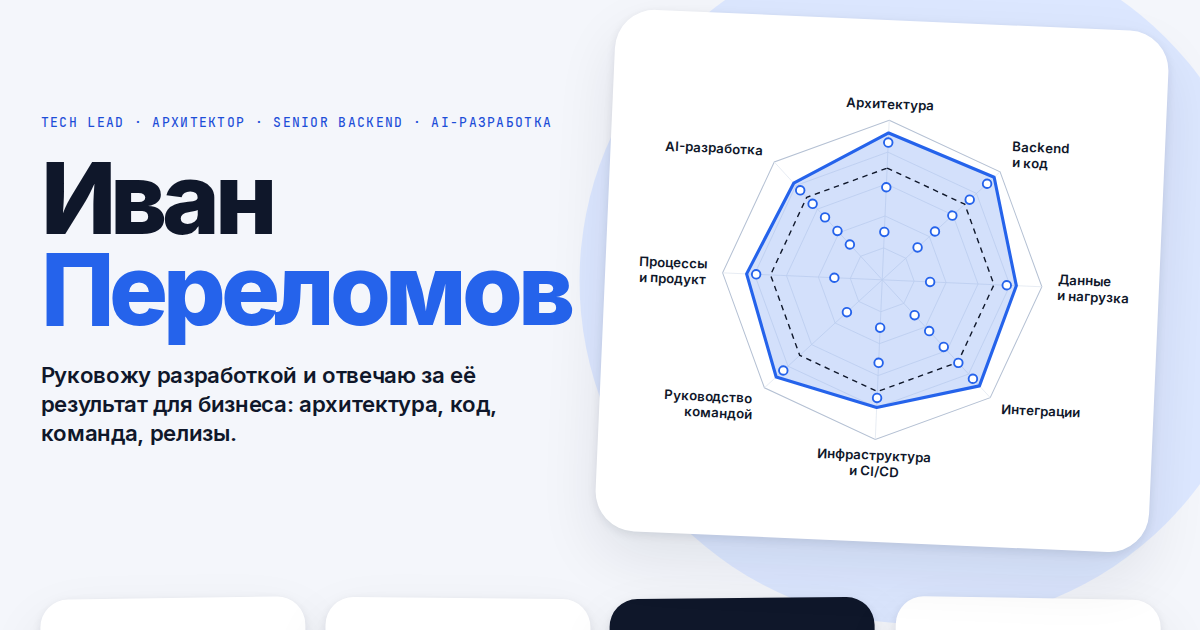
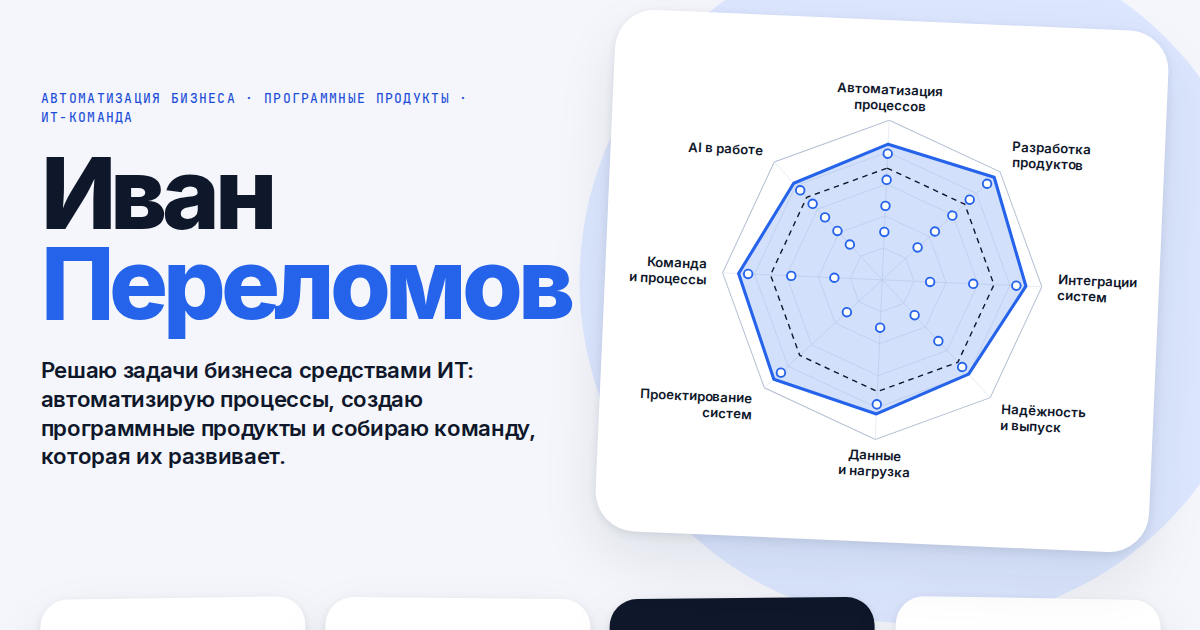
Позиционирование: специалист по ИТ — автоматизация, продукты, команда
Новый блок «Чем занимаюсь», оси круга и заголовки задач на языке бизнеса.

diff --git a/assets/js/data.js b/assets/js/data.js
@@ -5,29 +5,29 @@ window.SITE = (function () {
   var SENIOR = 70;
 
   var AXES = [
-    { id: 'arch', label: ['Архитектура'], level: 92,
-      about: 'Проектирую системы, которые можно развивать и перестраивать без остановки работы.',
-      stack: ['DDD', 'CQRS', 'Clean Architecture', 'Гексагональная архитектура', 'BPMN / UML'] },
-    { id: 'backend', label: ['Backend', 'и код'], level: 95,
-      about: 'Разрабатываю ключевые части продукта: ядро, права доступа, переход на новый фреймворк.',
+    { id: 'process', label: ['Автоматизация', 'процессов'], level: 85,
+      about: 'Ручные операции перевожу в систему, которую сотрудники настраивают без разработчиков.',
+      stack: ['BPMN / UML', 'Scrum / Kanban', 'Roadmap', 'Приоритизация бэклога', 'ТЗ и документация', 'Jira / YouTrack'] },
+    { id: 'backend', label: ['Разработка', 'продуктов'], level: 95,
+      about: 'Разрабатываю ключевые части продукта и обновляю его основу без остановки работы.',
       stack: ['PHP 7/8', 'Symfony', 'Laravel 10–12', 'Doctrine', 'PHPUnit', 'PHPStan', 'Rust', 'Python'] },
-    { id: 'data', label: ['Данные', 'и нагрузка'], level: 84,
-      about: 'Большие базы данных: скорость запросов, целостность и восстановление данных.',
-      stack: ['MySQL', 'PostgreSQL', 'Redis', 'ClickHouse', 'S3', 'SQL / EXPLAIN'] },
-    { id: 'integr', label: ['Интеграции'], level: 90,
-      about: 'Связь продукта с внешними системами: приём лидов, уведомления партнёрам, платежи.',
+    { id: 'integr', label: ['Интеграции', 'систем'], level: 90,
+      about: 'Связываю продукт с внешними системами: приём заявок, уведомления партнёрам, платежи.',
       stack: ['REST API', 'OpenAPI / Swagger', 'Webhooks и postbacks', 'RabbitMQ', 'WebSocket'] },
-    { id: 'infra', label: ['Инфраструктура', 'и CI/CD'], level: 80,
-      about: 'Автоматизация выкладки, развёртывания и восстановления после сбоев.',
+    { id: 'infra', label: ['Надёжность', 'и выпуск'], level: 80,
+      about: 'Обновления выходят автоматически, после сбоя сервис восстанавливается за минуты.',
       stack: ['Linux', 'Docker / Compose', 'Kubernetes', 'Ansible', 'GitLab CI', 'Nginx', 'Prometheus / Grafana', 'ELK', 'Sentry'] },
-    { id: 'lead', label: ['Руководство', 'командой'], level: 90,
-      about: 'Найм, ввод в проект, планирование работы и ответственность за результат отдела.',
-      stack: ['Найм', 'Онбординг', 'Наставничество и PDP', 'Code review'] },
-    { id: 'process', label: ['Процессы', 'и продукт'], level: 85,
-      about: 'Путь задачи от запроса бизнеса до релиза: постановка, планирование, контроль.',
-      stack: ['Scrum / Kanban', 'Roadmap', 'Приоритизация бэклога', 'ТЗ и документация', 'Jira / YouTrack'] },
-    { id: 'ai', label: ['AI-разработка'], level: 82,
-      about: 'AI-инструменты в ежедневной работе: код, code review, публичные проекты.',
+    { id: 'data', label: ['Данные', 'и нагрузка'], level: 84,
+      about: 'Большие базы данных: скорость работы, целостность и восстановление данных.',
+      stack: ['MySQL', 'PostgreSQL', 'Redis', 'ClickHouse', 'S3', 'SQL / EXPLAIN'] },
+    { id: 'arch', label: ['Проектирование', 'систем'], level: 92,
+      about: 'Проектирую системы, которые можно развивать и перестраивать без остановки работы.',
+      stack: ['DDD', 'CQRS', 'Clean Architecture', 'Гексагональная архитектура'] },
+    { id: 'lead', label: ['Команда', 'и процессы'], level: 90,
+      about: 'Найм, ввод в проект, путь задачи от запроса бизнеса до релиза, ответственность за результат отдела.',
+      stack: ['Найм', 'Онбординг', 'Наставничество и PDP', 'Code review', 'Планирование'] },
+    { id: 'ai', label: ['AI в работе'], level: 82,
+      about: 'AI-инструменты в ежедневной работе: разработка, проверка кода, публичные проекты.',
       stack: ['Claude', 'Codex', 'agy', 'LLM API', 'RAG', 'MCP', 'Fine-tuning', 'AI code review'] }
   ];
 
@@ -48,14 +48,14 @@ window.SITE = (function () {
   var TASKS = [
     /* ---------- 3snet ---------- */
     { id: 'crm-refactor', axis: 'arch', job: '3snet', where: S3,
-      title: 'Рефакторинг CRM под нагрузкой', short: 'Рефакторинг CRM',
+      title: 'CRM: вдвое меньше вычислительных ресурсов', short: 'Рефакторинг CRM',
       metric: '−50%', metricNote: 'вычислительных ресурсов',
       context: 'База CRM — несколько сотен гигабайт, в основных сущностях десятки миллионов записей. Ежедневно обновлялось не менее 20% данных.',
       did: 'Разработал архитектуру и план рефакторинга. Часть кода написал лично, остальную работу распределил в команде.',
       result: 'Потребление вычислительных ресурсов снизилось на 50%.',
       stack: S3STACK },
-    { id: 'nocode', axis: 'arch', job: '3snet', where: S3,
-      title: 'No-code сервис бизнес-процессов', short: 'No-code бизнес-процессы',
+    { id: 'nocode', axis: 'process', job: '3snet', where: S3,
+      title: 'Бизнес-процессы без участия разработчиков', short: 'No-code бизнес-процессы',
       pairs: [
         { label: 'Создание нового процесса', before: 'неделя', after: '2 часа' },
         { label: 'Изменение существующего', before: 'несколько дней', after: 'минуты' }
@@ -73,21 +73,21 @@ window.SITE = (function () {
       stack: ['Docker', 'Kubernetes', 'Ansible', 'CI/CD'] },
 
     { id: 'yii-symfony', axis: 'backend', job: '3snet', where: S3,
-      title: 'Переход с Yii2 на Symfony 7.4 без простоя', short: 'Yii2 → Symfony 7.4',
+      title: 'Смена технологической основы без простоя', short: 'Смена фреймворка без простоя',
       metric: '120 эндпоинтов', metricNote: 'вдвоём за 2 недели, без простоя',
       context: 'Приложение с постоянным входящим трафиком. Требовалось сменить фреймворк, сохранив работу сервиса и существующую базу данных.',
       did: 'Спланировал переход и участвовал в переносе: 120 эндпоинтов, 12 модулей. Трафик переключали по отдельным эндпоинтам через балансировщик.',
       result: 'Работу выполнили вдвоём за 2 недели. Простоя не было.',
       stack: ['PHP', 'Yii2', 'Symfony 7.4', 'MySQL'] },
     { id: 'symfony-upgrade', axis: 'backend', job: '3snet', where: S3,
-      title: 'Обновление Symfony 3 до 7.4', short: 'Symfony 3 → 7.4',
+      title: 'Обновление платформы без остановки сервиса', short: 'Обновление платформы',
       metric: '1 неделя', metricNote: 'без остановки сервиса',
       context: 'Приложение на Symfony 3 обрабатывало трафик. Остановка сервиса на время миграции исключалась.',
       did: 'Подготовил план и контролировал переход. Лично перенёс ядро и переписал систему прав доступа.',
       result: 'Миграция заняла 1 неделю, сервис работал без перерыва.',
       stack: ['PHP', 'Symfony 3', 'Symfony 7.4'] },
     { id: 'symfony-di', axis: 'backend', job: '3snet', where: S3,
-      title: 'Адаптация компонентов Symfony под продукт', short: 'Адаптация Symfony',
+      title: 'Ядро под постоянно меняющуюся бизнес-логику', short: 'Ядро продукта',
       text: 'Бизнес-логика продукта постоянно менялась. Глубоко адаптировал под неё компоненты Symfony, сохранив DI как основу приложения.',
       stack: ['PHP', 'Symfony', 'DI'] },
 
@@ -99,29 +99,29 @@ window.SITE = (function () {
       result: 'Данные восстановлены за 2 часа без простоя. Ручные исправления сохранены.',
       stack: ['MySQL', 'Аудит изменений', 'Логирование'] },
 
-    { id: 'leads', axis: 'integr', job: '3snet', where: S3,
+    { id: 'leads', axis: 'process', job: '3snet', where: S3,
       title: 'Обработка входящих лидов', short: 'Обработка лидов',
       pairs: [{ label: 'Обработка входящего лида', before: '12 часов', after: '5 минут' }],
       text: 'Перестроил обработку входящих лидов.',
       stack: S3STACK },
     { id: 'registration', axis: 'integr', job: '3snet', where: S3,
-      title: 'Микросервис регистрации и модерации', short: 'Сервис регистрации',
+      title: 'Регистрация и модерация заявок', short: 'Регистрация и модерация',
       metric: '≈400', metricNote: 'регистраций в день',
       text: 'Разработал отдельный микросервис регистрации с многоэтапной модерацией. Сервис принимает около 400 регистраций в день, обработка заявки занимает до 10 минут.',
       stack: ['PHP', 'Symfony', 'REST API'] },
-    { id: 'form-builder', axis: 'integr', job: '3snet', where: S3,
+    { id: 'form-builder', axis: 'process', job: '3snet', where: S3,
       title: 'Конструктор регистрационных форм', short: 'Конструктор форм',
       context: 'Формы регистрации должны были меняться без участия разработчиков.',
       did: 'Реализовал конструктор форм в административной панели: произвольные экраны, группы и поля, зависимости между полями, несколько этапов, валидация.',
       result: 'Структура формы и зависимости между полями настраиваются в административной панели.',
       stack: ['PHP', 'Symfony'] },
     { id: 'postbacks', axis: 'integr', job: '3snet', where: S3,
-      title: 'Приём лидов и postback-уведомления', short: 'Postback-уведомления',
+      title: 'Обмен данными с внешними системами', short: 'Обмен с внешними системами',
       text: 'Платформа принимает лиды от внешних систем и сообщает им о результате. Разрабатывал эти интеграции: приём лидов, отправку postback-уведомлений (webhooks), REST API и асинхронную обработку данных.',
       stack: ['REST API', 'Webhooks', 'RabbitMQ'] },
 
     { id: 'releases', axis: 'infra', job: '3snet', where: S3,
-      title: 'Автотесты релизов и автоматическая выкладка', short: 'Автовыкладка релизов',
+      title: 'Автоматический выпуск обновлений', short: 'Выпуск обновлений',
       metric: '15 минут', metricNote: 'на обновление всех серверов',
       text: 'Настроил автоматическое тестирование релизов и автоматическую выкладку. Обновление всех серверов занимало не более 15 минут.',
       stack: ['GitLab CI', 'Docker', 'Kubernetes', 'PHPUnit'] },
@@ -131,7 +131,7 @@ window.SITE = (function () {
       text: 'Автоматизировал восстановление сервиса после сбоев.',
       stack: ['Linux', 'Docker', 'Ansible'] },
     { id: 'k8s', axis: 'infra', job: '3snet', where: S3,
-      title: 'Production-кластер Kubernetes и собственный CDN', short: 'Кластер Kubernetes и CDN',
+      title: 'Инфраструктура в двух дата-центрах и собственный CDN', short: 'Два дата-центра и CDN',
       metric: '2 дата-центра', metricNote: 'пять серверов в первой версии кластера',
       did: 'Спроектировал и вручную развернул первую версию production-кластера Kubernetes: master- и worker-ноды на пяти независимых серверах в двух дата-центрах. Затем расширил инфраструктуру дополнительными ingress- и worker-нодами. Реализовал собственное CDN-решение.',
       result: 'Дальнейшее сопровождение кластера передал DevOps-инженеру.',
@@ -150,7 +150,7 @@ window.SITE = (function () {
       text: 'Подготовил документацию и план ввода в проект. Онбординг нового сотрудника сократился до 3 дней.',
       stack: ['Документация', 'Онбординг'] },
 
-    { id: 'process', axis: 'process', job: '3snet', where: S3,
+    { id: 'process', axis: 'lead', job: '3snet', where: S3,
       title: 'От запроса бизнеса до релиза', short: 'Запрос → релиз',
       context: 'Запросы бизнеса поступали без готовой постановки.',
       did: 'Выстроил работу от запроса до готового функционала: разбор задачи, планирование, распределение работы и ревью.',
@@ -164,7 +164,7 @@ window.SITE = (function () {
       stack: S3STACK },
 
     { id: 'ai-review', axis: 'ai', job: '3snet', where: S3,
-      title: 'Code review с AI-инструментами', short: 'AI в code review',
+      title: 'AI-инструменты в работе команды', short: 'AI в работе команды',
       text: 'Организовал code review в команде, позже подключил к нему AI-инструменты и внедрил их в ежедневную работу разработчиков.',
       stack: ['Claude', 'Codex', 'agy', 'AI code review', 'GitLab'] },
     { id: 'mocks', axis: 'ai', job: '3snet', where: S3,

diff --git a/index.html b/index.html
@@ -3,12 +3,12 @@
 <head>
 <meta charset="utf-8">
 <meta name="viewport" content="width=device-width, initial-scale=1">
-<title>Иван Переломов — Tech Lead, архитектор, Senior Backend</title>
-<meta name="description" content="Руковожу разработкой и отвечаю за её результат для бизнеса: архитектура, код, команда, релизы. Работаю удалённо.">
+<title>Иван Переломов — автоматизация бизнеса и разработка программных продуктов</title>
+<meta name="description" content="Решаю задачи бизнеса средствами ИТ: автоматизирую процессы, создаю программные продукты и собираю команду, которая их развивает. Работаю удалённо.">
 <meta property="og:type" content="website">
 <meta property="og:url" content="https://ivan08.github.io/">
-<meta property="og:title" content="Иван Переломов — Tech Lead, архитектор, Senior Backend">
-<meta property="og:description" content="Шесть решённых проблем бизнеса, круг компетенций и пять публичных проектов.">
+<meta property="og:title" content="Иван Переломов — автоматизация бизнеса и разработка программных продуктов">
+<meta property="og:description" content="Автоматизация процессов, программные продукты и ИТ-команда: шесть решённых проблем бизнеса и пять публичных проектов.">
 <meta property="og:image" content="https://ivan08.github.io/assets/img/og.png">
 <meta name="twitter:card" content="summary_large_image">
 <link rel="icon" href="assets/img/favicon.svg" type="image/svg+xml">
@@ -32,15 +32,15 @@
 
 <section class="hero" id="hero">
   <div class="hero-text">
-    <p class="eyebrow">Tech Lead · Архитектор · Senior Backend · AI-разработка</p>
+    <p class="eyebrow">Автоматизация бизнеса · Программные продукты · ИТ-команда</p>
     <h1>Иван<br><span>Переломов</span></h1>
-    <p class="pitch">Руковожу разработкой и отвечаю за её результат для бизнеса: архитектура, код, команда, релизы.</p>
-    <p class="lead">В 3snet прошёл путь от backend-разработчика до руководителя технического отдела из&nbsp;15&nbsp;человек. Обработка заявки сократилась с&nbsp;12&nbsp;часов до 5&nbsp;минут, потери новых клиентов — в&nbsp;4&nbsp;раза.</p>
+    <p class="pitch">Решаю задачи бизнеса средствами ИТ: автоматизирую процессы, создаю программные продукты и собираю команду, которая их развивает.</p>
+    <p class="lead">В 3snet прошёл путь от разработчика до руководителя технического отдела из&nbsp;15&nbsp;человек. Обработка заявки сократилась с&nbsp;12&nbsp;часов до 5&nbsp;минут, потери новых клиентов — в&nbsp;4&nbsp;раза.</p>
     <div class="cta">
       <a class="btn" href="https://t.me/IvanPerelomov" target="_blank" rel="noopener">Написать в Telegram</a>
       <a class="btn btn-ghost" href="#gains">Результаты для бизнеса</a>
     </div>
-    <p class="where">Барнаул · удалённая работа · готов приступить сразу</p>
+    <p class="where">Барнаул · удалённо · в штат или на проект · готов приступить сразу</p>
   </div>
 
   <div class="hero-radar">
@@ -57,9 +57,46 @@
 
 <section class="stats" aria-label="Коротко в цифрах">
   <div class="stat"><b>с 2012</b><span>в коммерческой веб-разработке</span></div>
-  <div class="stat"><b>5+ лет</b><span>техлид и архитектор</span></div>
+  <div class="stat"><b>5+ лет</b><span>руковожу разработкой</span></div>
   <div class="stat stat-dark"><b>15 человек</b><span>технический отдел, сформированный с нуля</span></div>
   <div class="stat"><b>5 проектов</b><span>публичных, с сайтом или репозиторием</span></div>
+</section>
+
+<section class="block" id="focus">
+  <div class="head">
+    <p class="eyebrow">Чем занимаюсь</p>
+    <h2>Три направления работы</h2>
+    <p class="sub">Под каждым — примеры решённых задач.</p>
+  </div>
+  <div class="focus">
+    <article class="focus-card">
+      <h3>Автоматизация процессов</h3>
+      <p>Перевожу ручную работу в систему: заявки, бизнес-процессы, восстановление после сбоев.</p>
+      <div class="axis-tasks">
+        <button class="task" type="button" data-task="leads"><span class="task-title">Обработка входящих лидов</span><b class="task-metric">5 минут</b></button>
+        <button class="task" type="button" data-task="nocode"><span class="task-title">Бизнес-процессы без участия разработчиков</span><b class="task-metric">2 часа</b></button>
+        <button class="task" type="button" data-task="recovery"><span class="task-title">Восстановление после сбоев</span><b class="task-metric">5 минут</b></button>
+      </div>
+    </article>
+    <article class="focus-card">
+      <h3>Программные продукты</h3>
+      <p>Проектирую и разрабатываю продукты — от задачи бизнеса до работающего сервиса.</p>
+      <div class="axis-tasks">
+        <button class="task" type="button" data-task="crm-refactor"><span class="task-title">CRM: вдвое меньше вычислительных ресурсов</span><b class="task-metric">−50%</b></button>
+        <button class="task" type="button" data-task="whitelabel"><span class="task-title">White-label система и развёртывание</span><b class="task-metric">1 час</b></button>
+        <button class="task" type="button" data-task="mgate"><span class="task-title">MGate — почтовый сервер</span></button>
+      </div>
+    </article>
+    <article class="focus-card">
+      <h3>ИТ-команда</h3>
+      <p>Собираю и веду команду, которая самостоятельно доводит задачи до релиза.</p>
+      <div class="axis-tasks">
+        <button class="task" type="button" data-task="team"><span class="task-title">Технический отдел с нуля</span><b class="task-metric">15 человек</b></button>
+        <button class="task" type="button" data-task="onboarding"><span class="task-title">Документация и ввод в проект</span><b class="task-metric">3 дня</b></button>
+        <button class="task" type="button" data-task="process"><span class="task-title">От запроса бизнеса до релиза</span></button>
+      </div>
+    </article>
+  </div>
 </section>
 
 <section class="block" id="gains">
@@ -90,7 +127,7 @@
     <button class="gain" type="button" data-task="yii-symfony">
       <span class="gain-pain">«Обновление системы грозит простоем»</span>
       <span class="gain-num"><b>без простоя</b></span>
-      <span class="gain-text">Перевели продукт на другой фреймворк под действующим трафиком: 120 эндпоинтов за 2 недели, сервис работал без перерыва.</span>
+      <span class="gain-text">Заменили технологическую основу продукта под действующим трафиком за 2 недели. Сервис работал без перерыва.</span>
       <span class="more">Подробнее</span>
     </button>
     <button class="gain" type="button" data-task="recovery">
@@ -107,7 +144,7 @@
     </button>
   </div>
   <div class="terms">
-    <p>Готов взять на себя архитектуру, разработку и руководство командой — вместе или по отдельности. Работаю удалённо, могу приступить сразу.</p>
+    <p>Готов войти в команду или взять отдельную задачу: автоматизировать процесс, разработать продукт, выстроить разработку. Работаю удалённо, могу приступить сразу.</p>
     <a class="btn" href="https://t.me/IvanPerelomov" target="_blank" rel="noopener">Обсудить задачу</a>
   </div>
 </section>
@@ -124,8 +161,8 @@
 <section class="block" id="projects">
   <div class="head">
     <p class="eyebrow">Публичные проекты</p>
-    <h2>Пять публичных проектов</h2>
-    <p class="sub">Продукты и инструменты, которые можно посмотреть и попробовать: у каждого есть сайт или репозиторий.</p>
+    <h2>Пять программных продуктов в открытом доступе</h2>
+    <p class="sub">Каждый можно посмотреть и попробовать: есть сайт или репозиторий.</p>
   </div>
   <div class="projects" id="projects-list"></div>
 </section>
@@ -134,7 +171,7 @@
   <div class="head">
     <p class="eyebrow">Опыт</p>
     <h2>Опыт работы и решённые задачи</h2>
-    <p class="sub">На ленте — последние пять лет, на карте под ней — весь путь с&nbsp;2009&nbsp;года. Положение меток внутри периода условное.</p>
+    <p class="sub">Администрирование инфраструктуры, затем разработка, затем руководство техническим отделом. На ленте — последние пять лет, на карте под ней — весь путь с&nbsp;2009&nbsp;года. Положение меток внутри периода условное.</p>
   </div>
   <div class="timeline" id="timeline"></div>
 </section>
@@ -142,7 +179,7 @@
 <section class="contact" id="contact">
   <p class="eyebrow">Контакты</p>
   <h2>Обсудим вашу задачу</h2>
-  <p class="sub">Напишите, какую задачу нужно решить в разработке, — отвечу по существу.</p>
+  <p class="sub">Напишите, что нужно автоматизировать или разработать, — отвечу по существу.</p>
   <div class="cta">
     <a class="btn btn-lg" href="https://t.me/IvanPerelomov" target="_blank" rel="noopener">Telegram: @IvanPerelomov</a>
     <a class="btn btn-ghost btn-lg" href="mailto:perelomov_iv@mail.ru">perelomov_iv@mail.ru</a>

diff --git a/assets/css/style.css b/assets/css/style.css
@@ -141,6 +141,11 @@ h2 { font-weight: 800; font-size: clamp(30px, 4.2vw, 60px); line-height: 1.02; l
 .terms p { font-size: 19px; font-weight: 600; line-height: 1.4; letter-spacing: -.01em; max-width: 44em; }
 
 /* ---------- оси ---------- */
+.focus { display: grid; grid-template-columns: repeat(3, minmax(0, 1fr)); gap: 20px; }
+.focus-card { display: flex; flex-direction: column; gap: 16px; padding: 30px; background: var(--paper); border-radius: var(--r); box-shadow: var(--shadow); }
+.focus-card h3 { font-weight: 800; font-size: 30px; letter-spacing: -.03em; line-height: 1.08; }
+.focus-card p { font-size: 17px; line-height: 1.5; color: var(--ink-2); }
+.focus-card .axis-tasks { margin-top: auto; }
 .axes { display: grid; grid-template-columns: repeat(4, minmax(0, 1fr)); gap: 20px; }
 .axis { display: flex; flex-direction: column; gap: 16px; padding: 26px; background: var(--paper); border-radius: var(--r); box-shadow: var(--shadow); }
 .axis h3 { font-weight: 800; font-size: 24px; letter-spacing: -.03em; line-height: 1.1; }
@@ -332,7 +337,7 @@ h2 { font-weight: 800; font-size: clamp(30px, 4.2vw, 60px); line-height: 1.02; l
 .tip[hidden] { display: none; }
 
 /* ---------- появление ---------- */
-.anim .stat, .anim .axis, .anim .project, .anim .gain, .anim .head, .anim .timeline, .anim .contact {
+.anim .stat, .anim .focus-card, .anim .axis, .anim .project, .anim .gain, .anim .head, .anim .timeline, .anim .contact {
   opacity: 0; transform: translateY(18px); transition: opacity .6s, transform .6s cubic-bezier(.2, .8, .2, 1), border-color .15s, box-shadow .15s; }
 .anim .in { opacity: 1; transform: none; }
 
@@ -360,7 +365,9 @@ h2 { font-weight: 800; font-size: clamp(30px, 4.2vw, 60px); line-height: 1.02; l
 @media (max-width: 720px) {
   body { font-size: 16px; }
   :root { --r: 22px; }
-  .projects, .gains, .axes { grid-template-columns: 1fr; }
+  .projects, .gains, .axes, .focus { grid-template-columns: 1fr; }
+  .focus-card { padding: 24px; }
+  .focus-card h3 { font-size: 26px; }
   .stats { gap: 12px; }
   .stat { padding: 20px; rotate: none !important; }
   .stat span { font-size: 14.5px; }

diff --git a/assets/js/main.js b/assets/js/main.js
@@ -27,7 +27,7 @@
       b.setAttribute('data-task', t.id);
       b.appendChild(h('span', 'task-title', t.title));
       var m = t.pairs ? t.pairs[0].after : (t.project ? null : t.metric);
-      if (m) b.appendChild(h('b', 'task-metric', m));
+      if (m && m.length <= 10) b.appendChild(h('b', 'task-metric', m));
       tasks.appendChild(b);
     });
     card.appendChild(tasks);
@@ -87,7 +87,7 @@
   });
 
   /* ---------- появление ---------- */
-  var items = document.querySelectorAll('.stat, .axis, .project, .gain, .head, .timeline, .contact');
+  var items = document.querySelectorAll('.stat, .focus-card, .axis, .project, .gain, .head, .timeline, .contact');
   if (!('IntersectionObserver' in window) || window.matchMedia('(prefers-reduced-motion: reduce)').matches) return;
   document.documentElement.classList.add('anim');
   var io = new IntersectionObserver(function (entries) {
